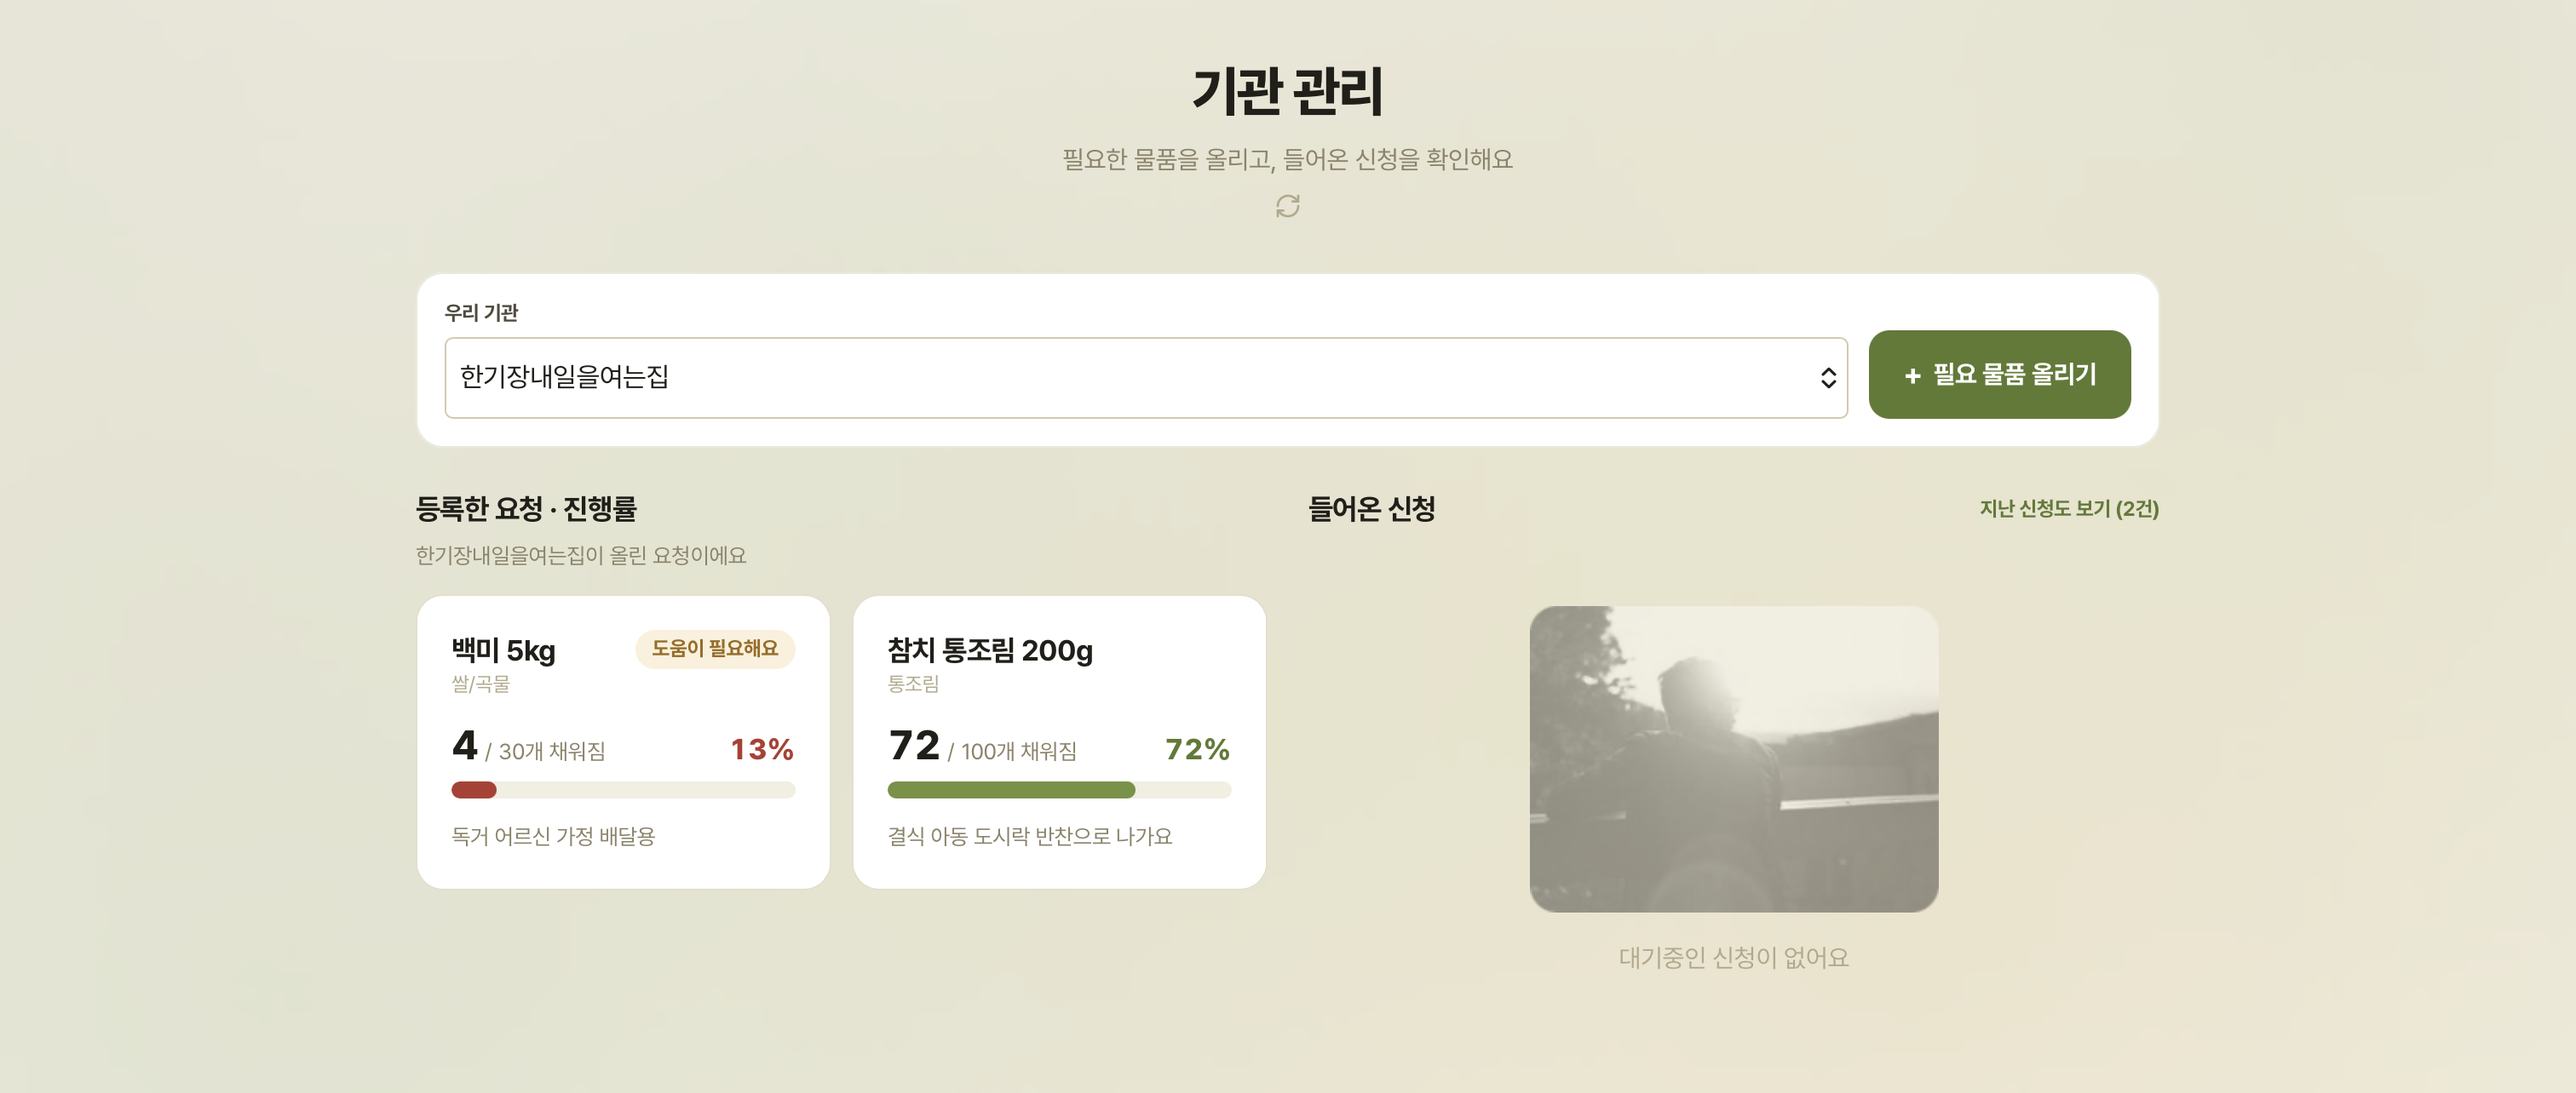
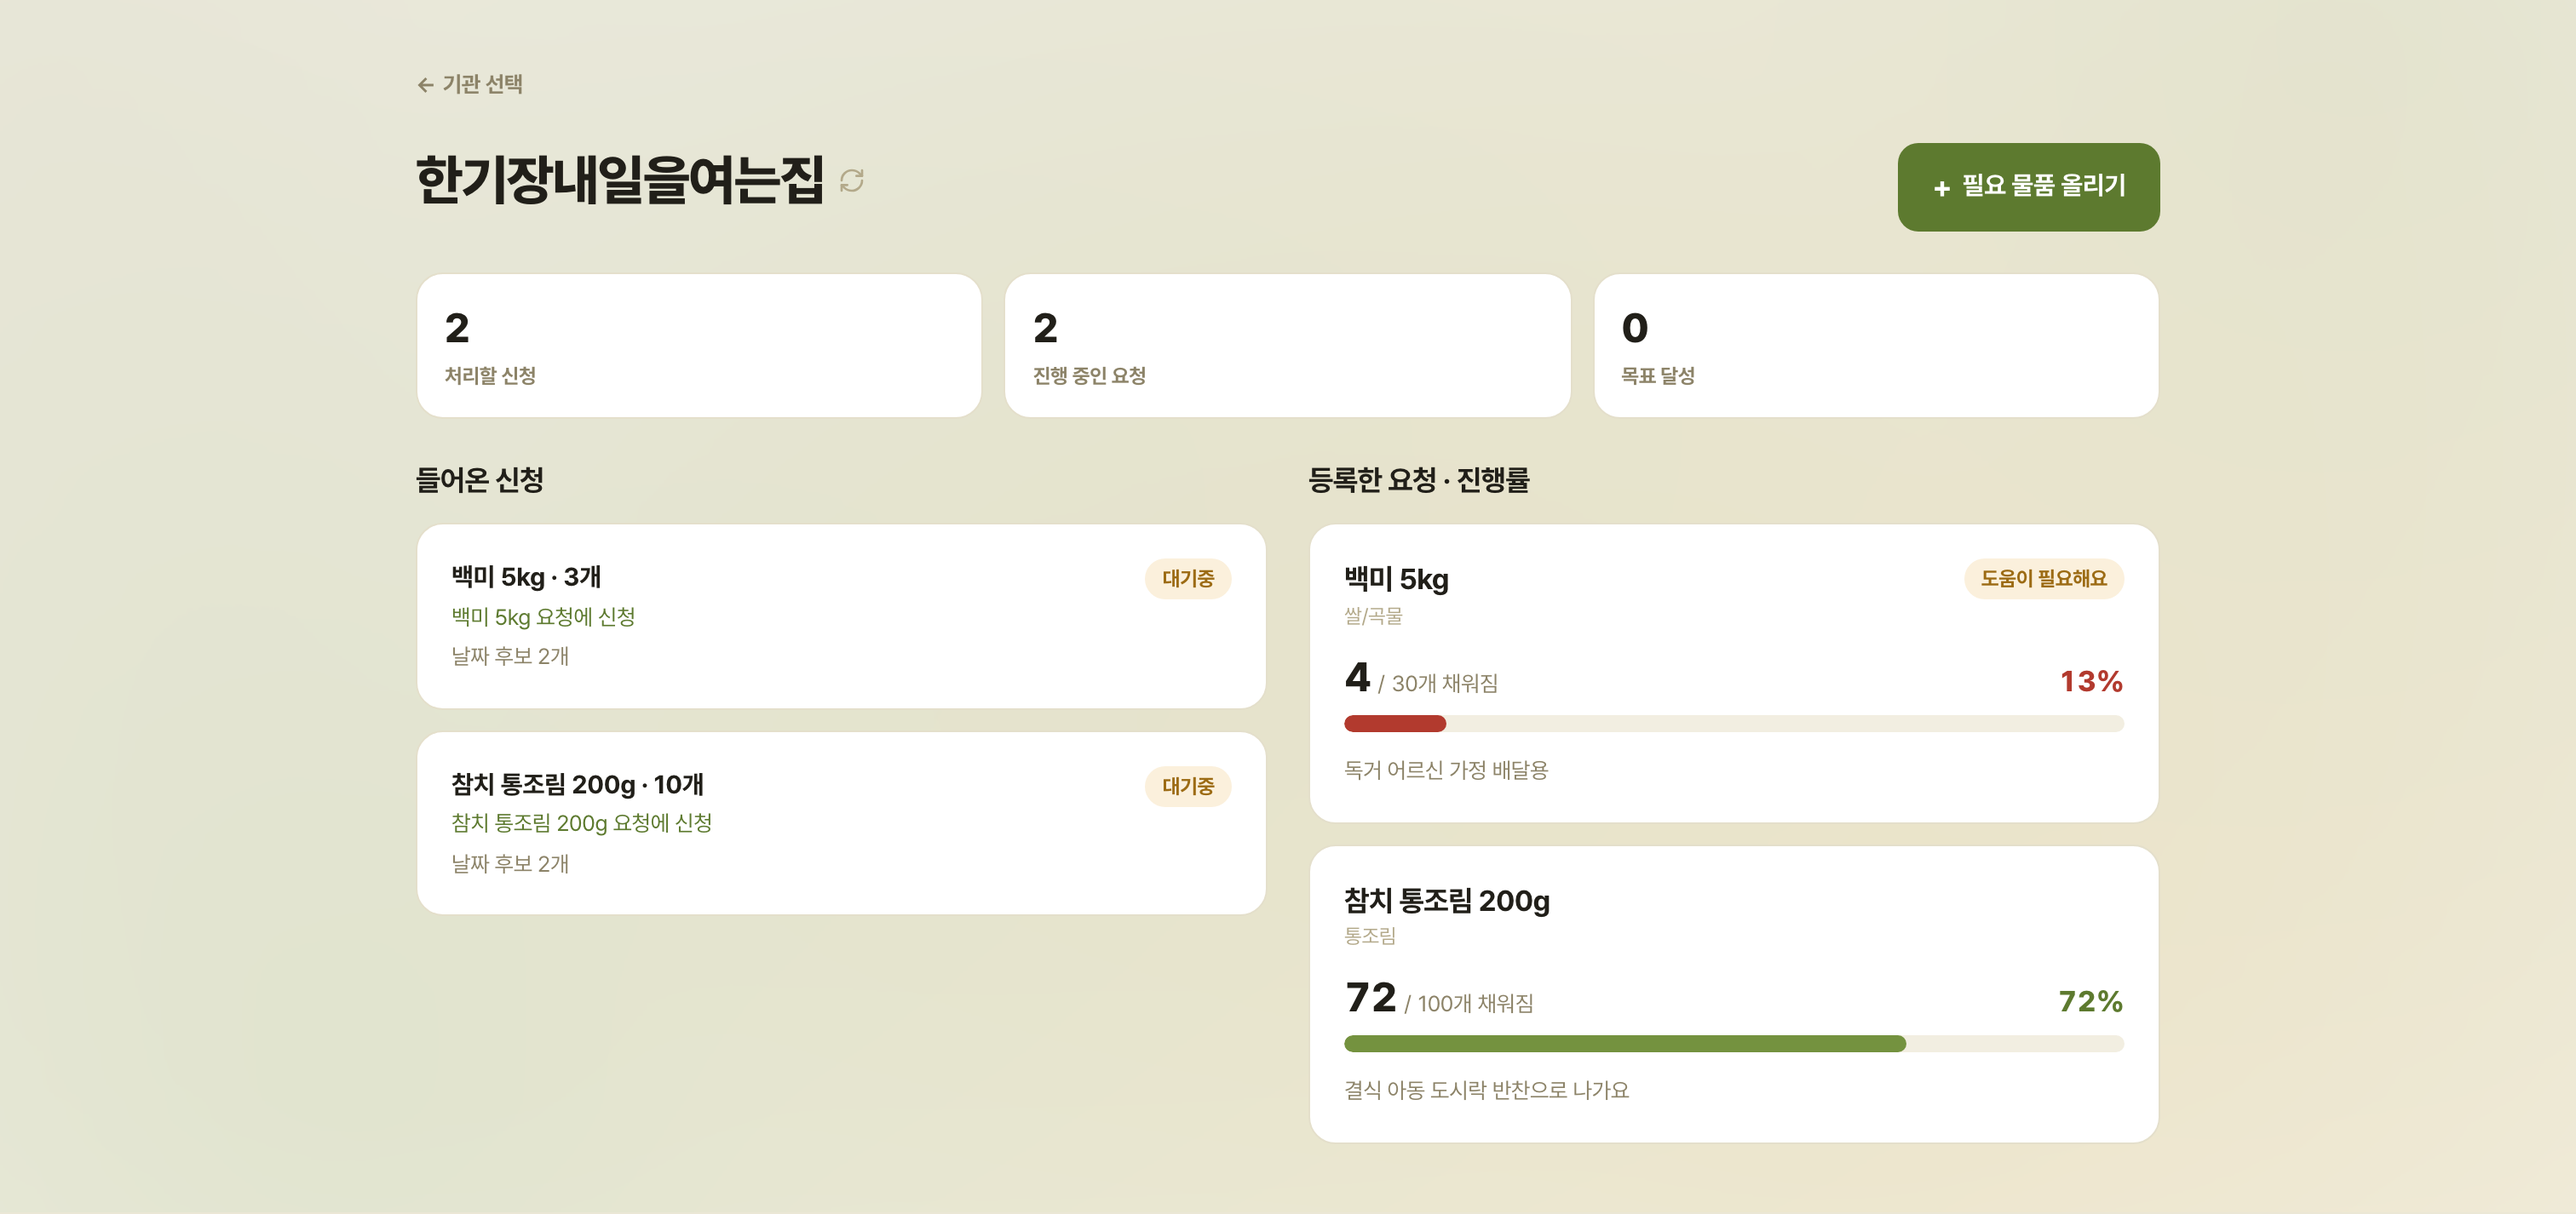
안내 페이지: 저장 방식 설명을 실제에 맞추고 404 페이지를 추가한다
개인정보처리방침과 약관이 Firestore를 쓰는데도 서버 메모리에만
저장한다고 적혀 있었다. 문의 메일을 실제 주소로 바꾸고, 서버 초기화
안내를 지우고, 서비스 소개 사진을 새 기관 홈으로 바꾼다.

diff --git a/app/(site)/privacy/page.tsx b/app/(site)/privacy/page.tsx
@@ -8,7 +8,7 @@ export default function PrivacyPage() {
         <header className="text-center">
           <h1 className={pageTitle}>개인정보처리방침</h1>
           <p className={pageDesc}>
-            이 페이지는 데모 프로젝트용 안내 문구예요. 실제 개인정보처리방침이 아니에요.
+            해커톤 데모 프로젝트의 안내 문구예요. 정식 서비스의 개인정보처리방침이 아니에요.
           </p>
         </header>
 
@@ -16,22 +16,32 @@ export default function PrivacyPage() {
           <section>
             <h2 className={sectionTitle}>1. 수집하는 정보</h2>
             <p className={`${caption} mt-1`}>
-              나눔 신청 시 입력하는 연락처·전달 장소·수량 정보가 서버 메모리에 일시적으로
-              저장돼요. 이 정보는 데모 화면 안에서만 쓰이고 외부로 전송되지 않아요.
+              물품을 등록하고 나눔을 신청할 때 입력하는 사진·품목·유통기한·수량·전달 장소·연락처가
+              데이터베이스에 저장돼요. 기관과 신청을 연결하는 데에만 써요.
             </p>
           </section>
           <section>
             <h2 className={sectionTitle}>2. 보관 기간</h2>
             <p className={`${caption} mt-1`}>
-              서버가 재시작되면 모든 데이터가 초기화돼요. 별도의 데이터베이스나 영구 저장소를
-              쓰지 않아요.
+              자동으로 삭제되지 않고, 지울 때까지 보관돼요. 삭제를 원하면{" "}
+              <a href="mailto:yeoreosi@gmail.com" className="font-bold text-primary-700 hover:text-primary-800">
+                yeoreosi@gmail.com
+              </a>
+              으로 알려주세요.
             </p>
           </section>
           <section>
-            <h2 className={sectionTitle}>3. 제3자 제공</h2>
+            <h2 className={sectionTitle}>3. 외부 서비스</h2>
             <p className={`${caption} mt-1`}>
-              사진 인식에 OpenAI API를 호출할 때만 이미지가 외부로 전송돼요. 그 외에는
-              어떤 정보도 제3자에게 제공하지 않아요.
+              데이터는 Google Firebase에 저장돼요. 사진을 판독하고 품목명을 정리할 때는 사진과
+              품목명이 OpenAI로 전송돼요.
+            </p>
+          </section>
+          <section>
+            <h2 className={sectionTitle}>4. 입력할 때 주의할 점</h2>
+            <p className={`${caption} mt-1`}>
+              데모 단계라 저장된 정보의 접근 제한이 완전하지 않아요. 실제 전화번호나 민감한 정보는
+              입력하지 말고, 체험할 때는 가짜 번호를 써주세요.
             </p>
           </section>
         </div>

diff --git a/app/(site)/terms/page.tsx b/app/(site)/terms/page.tsx
@@ -1,3 +1,4 @@
+import Link from "next/link";
 import PageShell from "@/app/_components/PageShell";
 import { caption, pageDesc, pageTitle, sectionTitle } from "@/app/ui";
 
@@ -8,7 +9,7 @@ export default function TermsPage() {
         <header className="text-center">
           <h1 className={pageTitle}>이용약관</h1>
           <p className={pageDesc}>
-            이 페이지는 데모 프로젝트용 안내 문구예요. 실제 서비스 약관이 아니에요.
+            해커톤 데모 프로젝트의 안내 문구예요. 정식 서비스의 약관이 아니에요.
           </p>
         </header>
 
@@ -23,8 +24,11 @@ export default function TermsPage() {
           <section>
             <h2 className={sectionTitle}>2. 데이터 보관</h2>
             <p className={`${caption} mt-1`}>
-              입력한 정보는 서버 메모리에만 저장되며, 서버가 재시작되면 초기화돼요. 실제 개인정보
-              수집·보관 목적으로 사용되지 않아요.
+              입력한 정보는 데이터베이스에 저장되고, 지울 때까지 보관돼요. 자세한 내용은{" "}
+              <Link href="/privacy" className="font-bold text-primary-700 hover:text-primary-800">
+                개인정보처리방침
+              </Link>
+              을 확인해주세요.
             </p>
           </section>
           <section>

diff --git a/app/(site)/service/page.tsx b/app/(site)/service/page.tsx
@@ -80,10 +80,9 @@ export default function ServicePage() {
         <div className={mediaRow}>
           <img
             src="/service/admin.png"
-            alt="기관 관리 화면. 필요 물품을 올리는 폼과 들어온 신청 목록을 함께 보여준다"
-            /* 이 사진만 거의 정사각형이라, 다른 사진처럼 h-auto로 두면 옆 사진들보다
-               훨씬 커져버린다. 높이를 다른 사진들과 비슷하게 고정하고, 잘라내는
-               object-cover 대신 object-contain으로 잘림 없이 다 보이게 한다. */
+            alt="기관 홈 화면. 처리할 신청 수와 들어온 신청, 요청별 진행률을 함께 보여준다"
+            /* 다른 사진처럼 h-auto로 두면 옆 사진들보다 커질 수 있다. 높이를 다른 사진들과
+               비슷하게 고정하고, 잘라내는 object-cover 대신 object-contain으로 잘림 없이 다 보이게 한다. */
             className="h-64 w-full rounded-xl object-contain object-top sm:min-w-0 sm:flex-[2]"
           />
           <div className="flex flex-col gap-2 sm:flex-1">

diff --git a/app/_components/CompleteView.tsx b/app/_components/CompleteView.tsx
@@ -189,16 +189,16 @@ export default function CompleteView({
     );
   }
 
-  // 저장소가 서버 메모리에 있어서 서버가 재시작되면 신청 id가 사라진다.
+  // 주소를 잘못 열었거나 신청이 삭제되면 id를 찾을 수 없다.
   // 저장해둔 주소로 들어왔을 때 빈 화면을 보여주지 않고 사유를 말한다.
   if (loadState === "notfound" || !application) {
     return (
       <div className="mx-auto flex w-full max-w-lg flex-col items-center gap-4 py-16 text-center">
         <h1 className={pageTitle}>신청 내역을 찾을 수 없어요</h1>
         <p className="text-[15px] leading-relaxed text-neutral-500">
-          데모 서버가 초기화되면서 신청 기록이 사라졌어요.
+          주소가 잘못됐거나 삭제된 신청이에요.
           <br />
-          아래에서 다시 시작해주세요.
+          신청 조회에서 찾아보거나 아래에서 다시 시작해주세요.
         </p>
         <div className="mt-2 flex w-full max-w-xs flex-col gap-3">
           <Link href="/board" className={btnSecondary}>

diff --git a/app/(site)/contact/page.tsx b/app/(site)/contact/page.tsx
@@ -13,13 +13,14 @@ export default function ContactPage() {
         <div className={card}>
           <div>
             <p className={label}>이메일</p>
-            <p className="mt-1 text-[15px]">contact@nanumgotgan.example</p>
+            <a
+              href="mailto:yeoreosi@gmail.com"
+              className="mt-1 inline-block text-[15px] font-bold text-primary-700 hover:text-primary-800"
+            >
+              yeoreosi@gmail.com
+            </a>
           </div>
-          <div>
-            <p className={label}>운영 시간</p>
-            <p className="mt-1 text-[15px]">평일 10:00 ~ 18:00 (주말·공휴일 제외)</p>
-          </div>
-          <p className={caption}>데모 프로젝트라 실제 응답은 어려워요. 양해 부탁드려요.</p>
+          <p className={caption}>해커톤 프로젝트라 답변이 늦어질 수 있어요.</p>
         </div>
       </div>
     </PageShell>

diff --git a/app/not-found.tsx b/app/not-found.tsx
@@ -1,0 +1,23 @@
+import Link from "next/link";
+import SiteLayout from "./(site)/layout";
+import PageShell from "./_components/PageShell";
+import { btnPrimary, pageDesc, pageTitle } from "./ui";
+
+/** 없는 주소는 (site) 레이아웃 밖에서 처리되므로, 헤더·푸터를 여기서 직접 씌운다. */
+export default function NotFound() {
+  return (
+    <SiteLayout>
+      <PageShell>
+        <div className="mx-auto flex min-h-[40vh] w-full max-w-sm flex-col items-center justify-center gap-4 text-center">
+          <div>
+            <h1 className={pageTitle}>페이지를 찾을 수 없어요</h1>
+            <p className={pageDesc}>주소가 잘못됐거나 없어진 페이지예요</p>
+          </div>
+          <Link href="/" className={btnPrimary}>
+            처음으로
+          </Link>
+        </div>
+      </PageShell>
+    </SiteLayout>
+  );
+}

diff --git a/app/(site)/error.tsx b/app/(site)/error.tsx
@@ -17,8 +17,7 @@ export default function SiteError({ error, reset }: { error: Error & { digest?: 
     <main className="flex min-h-[60vh] flex-col items-center justify-center gap-4 px-5 py-16 text-center">
       <h1 className={pageTitle}>문제가 생겼어요</h1>
       <p className={pageDesc}>
-        화면을 불러오는 중 오류가 났어요. 데모 서버 데이터가 방금 초기화됐거나, 일시적인
-        문제일 수 있어요.
+        화면을 불러오는 중 오류가 났어요. 일시적인 문제일 수 있으니 다시 시도해주세요.
       </p>
       <div className="mt-2 flex w-full max-w-xs flex-col gap-3">
         <button onClick={reset} className={btnPrimary}>

diff --git a/app/api/donations/route.ts b/app/api/donations/route.ts
@@ -3,7 +3,7 @@ import { DEFAULT_REGION, isValidISODate } from "@/lib/rules";
 import { createDonation } from "@/lib/store";
 
 // 클라이언트가 올릴 때 이미 줄여서 보내지만(RegisterFlow.tsx), 그 경로를 우회한
-// 값까지 메모리 저장소에 그대로 쌓이지 않게 여기서도 형태와 크기를 한 번 더 본다.
+// 값까지 저장소에 그대로 쌓이지 않게 여기서도 형태와 크기를 한 번 더 본다.
 const MAX_IMAGE_DATA_URL_LENGTH = 2_000_000;
 
 /** 사진은 있으면 좋지만 없다고 등록을 막을 이유는 없다. 이상하면 그냥 없는 걸로 친다. */

diff --git a/app/(site)/layout.tsx b/app/(site)/layout.tsx
@@ -2,7 +2,7 @@ import Footer from "@/app/_components/Footer";
 import Header from "@/app/_components/Header";
 
 /** 랜딩·기부·신청·게시판·정보 페이지가 공유하는 공통 레이아웃.
- * /beneficiary는 시연용 단독 화면이라 이 그룹 밖에 둔다(헤더·푸터 없음). */
+ * 기관 관리(/beneficiary)도 같은 헤더·푸터를 쓴다. */
 export default function SiteLayout({ children }: { children: React.ReactNode }) {
   return (
     <>
